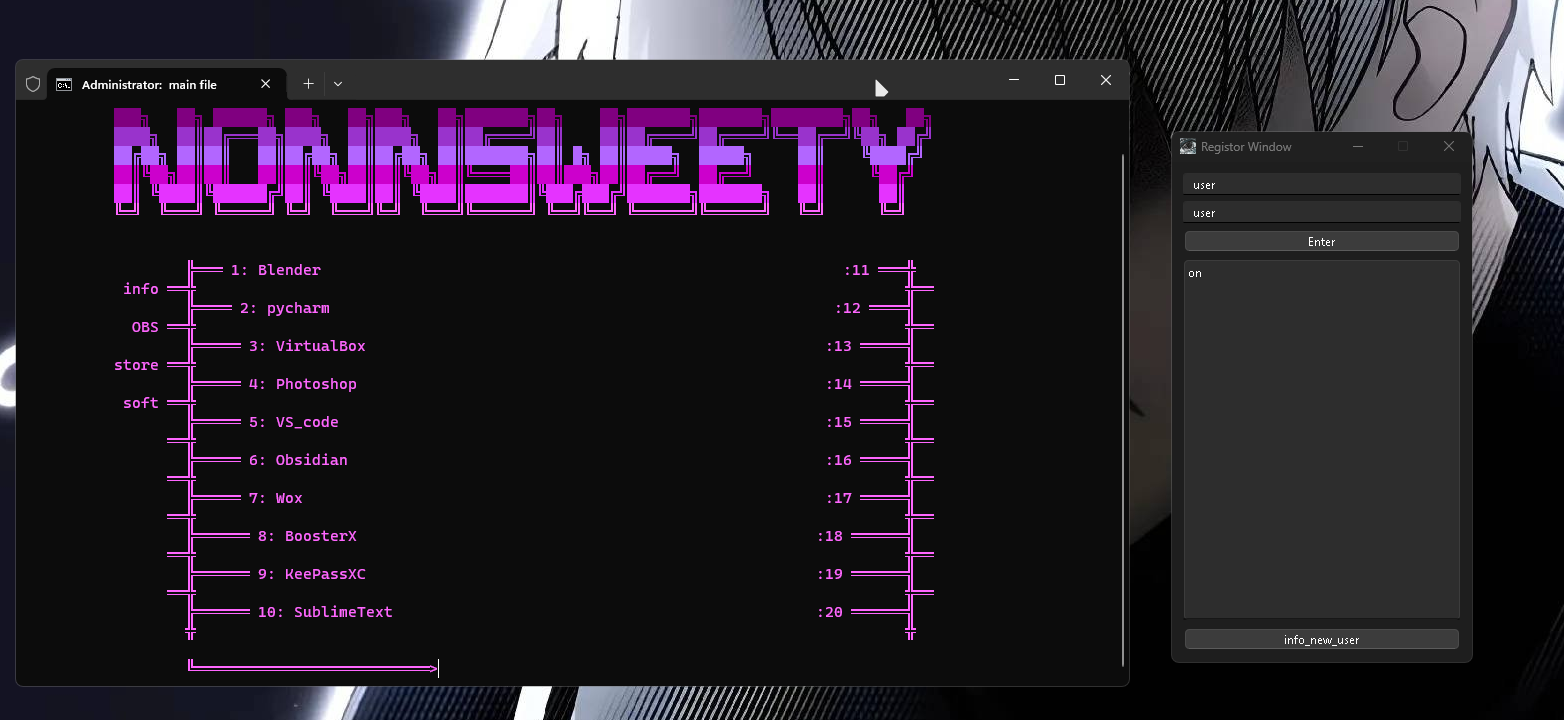
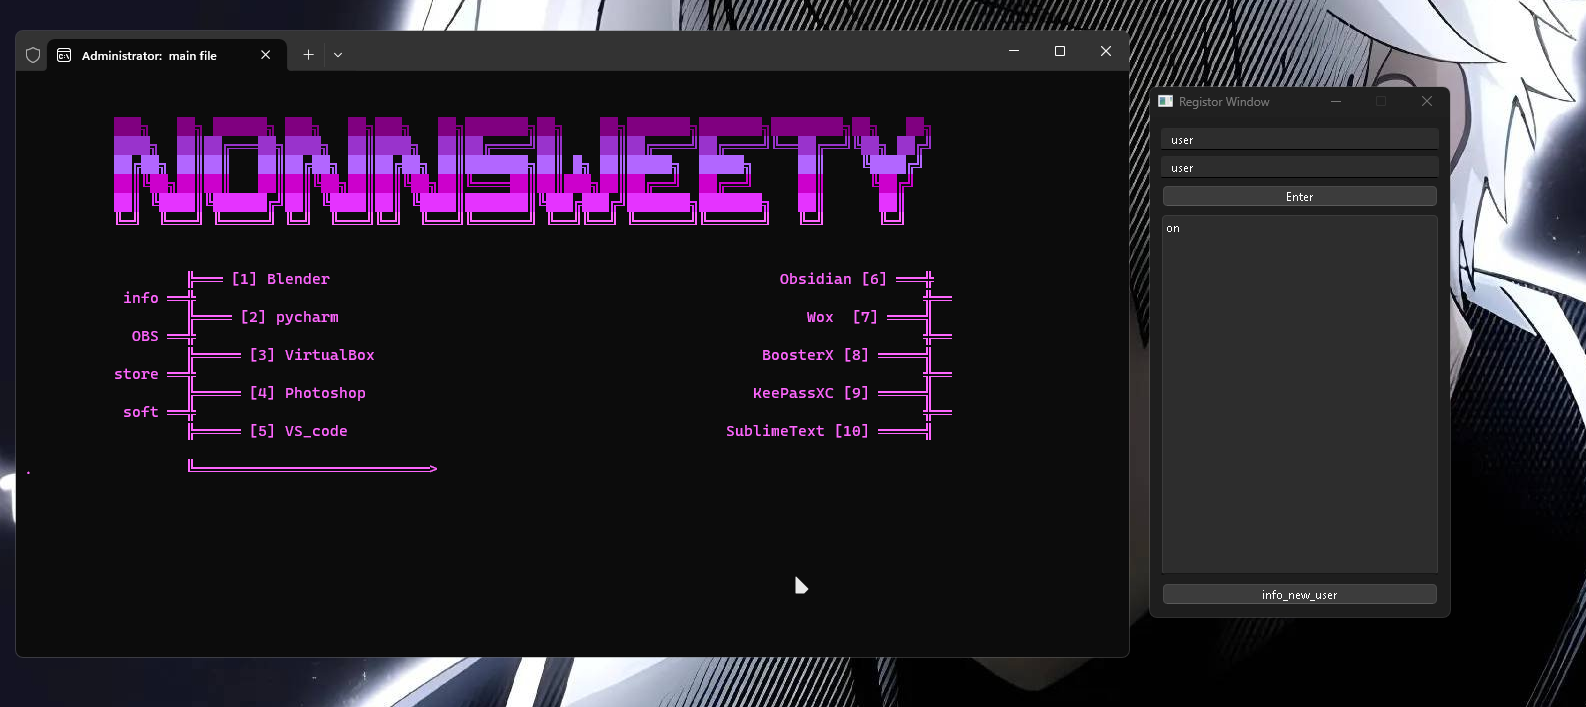
update readme

diff --git a/README.md b/README.md
@@ -8,7 +8,7 @@
   <a href="https://www.youtube.com/channel/UCeXL-Anplc8_IthxRIIHm7w" target="_blank">YouTube</a>
 </h4>
 
-<p align="center"> Здраствуйте, это прога больше всего под windows. Это програма запускает другие програмы <sub><b>by nonnsweety</b></sub>
+<p align="center"> Програма ещё в бета тестировании  <sub><b>by nonnsweety</b></sub>
 </p>
 
 ## :star2: Download
@@ -22,18 +22,21 @@
 ![Image](for_README_file/image/registor_window.png)
 ![Image](for_README_file/image/registor_user_window.png)
 ![Image](for_README_file/image/registor_admin_window.png)
-![Image](for_README_file/image/next_comand_window.png)
+![Image](for_README_file/image/main.png)
+![Image](for_README_file/image/next.png)
 
 ## :star2: What it is?
 
-- Програма умет запускать любую програму на вашем комрьютере
-- Может вам скачать C++ пакеты для того что бы менше проблем было
-- Ещё может скачать DiretX
-- Есть проги для того что бы оптимизировать ПК
+- Через Ярлыки других программа моя может запускать их
+- Можно обновит DiretX и так же C++ всех годов
+- Прогрма так же может вам помоч отчистить мусор с компьютера
+- Есть проложение boosterX для оптимизации системы
 
 ## :star2: Other
 
-- Програму сейчас запускается без никаких пробелем до этого надо было скачать пакеты для дого что она просто запустилась
+- Когда вы перейдете в next то вам надо будет сперва написать cls 
+- что бы у вас был задни вон не черный а фото то вам надо будет скачать terminal от microsoft в настройках можно будет поставит любое фото 
+- У программы есть setup он сверху 
 - Если будут какие то проблемы то можете написать на Gmail: age2380@gmail.com
 
 ## :star2: on future
